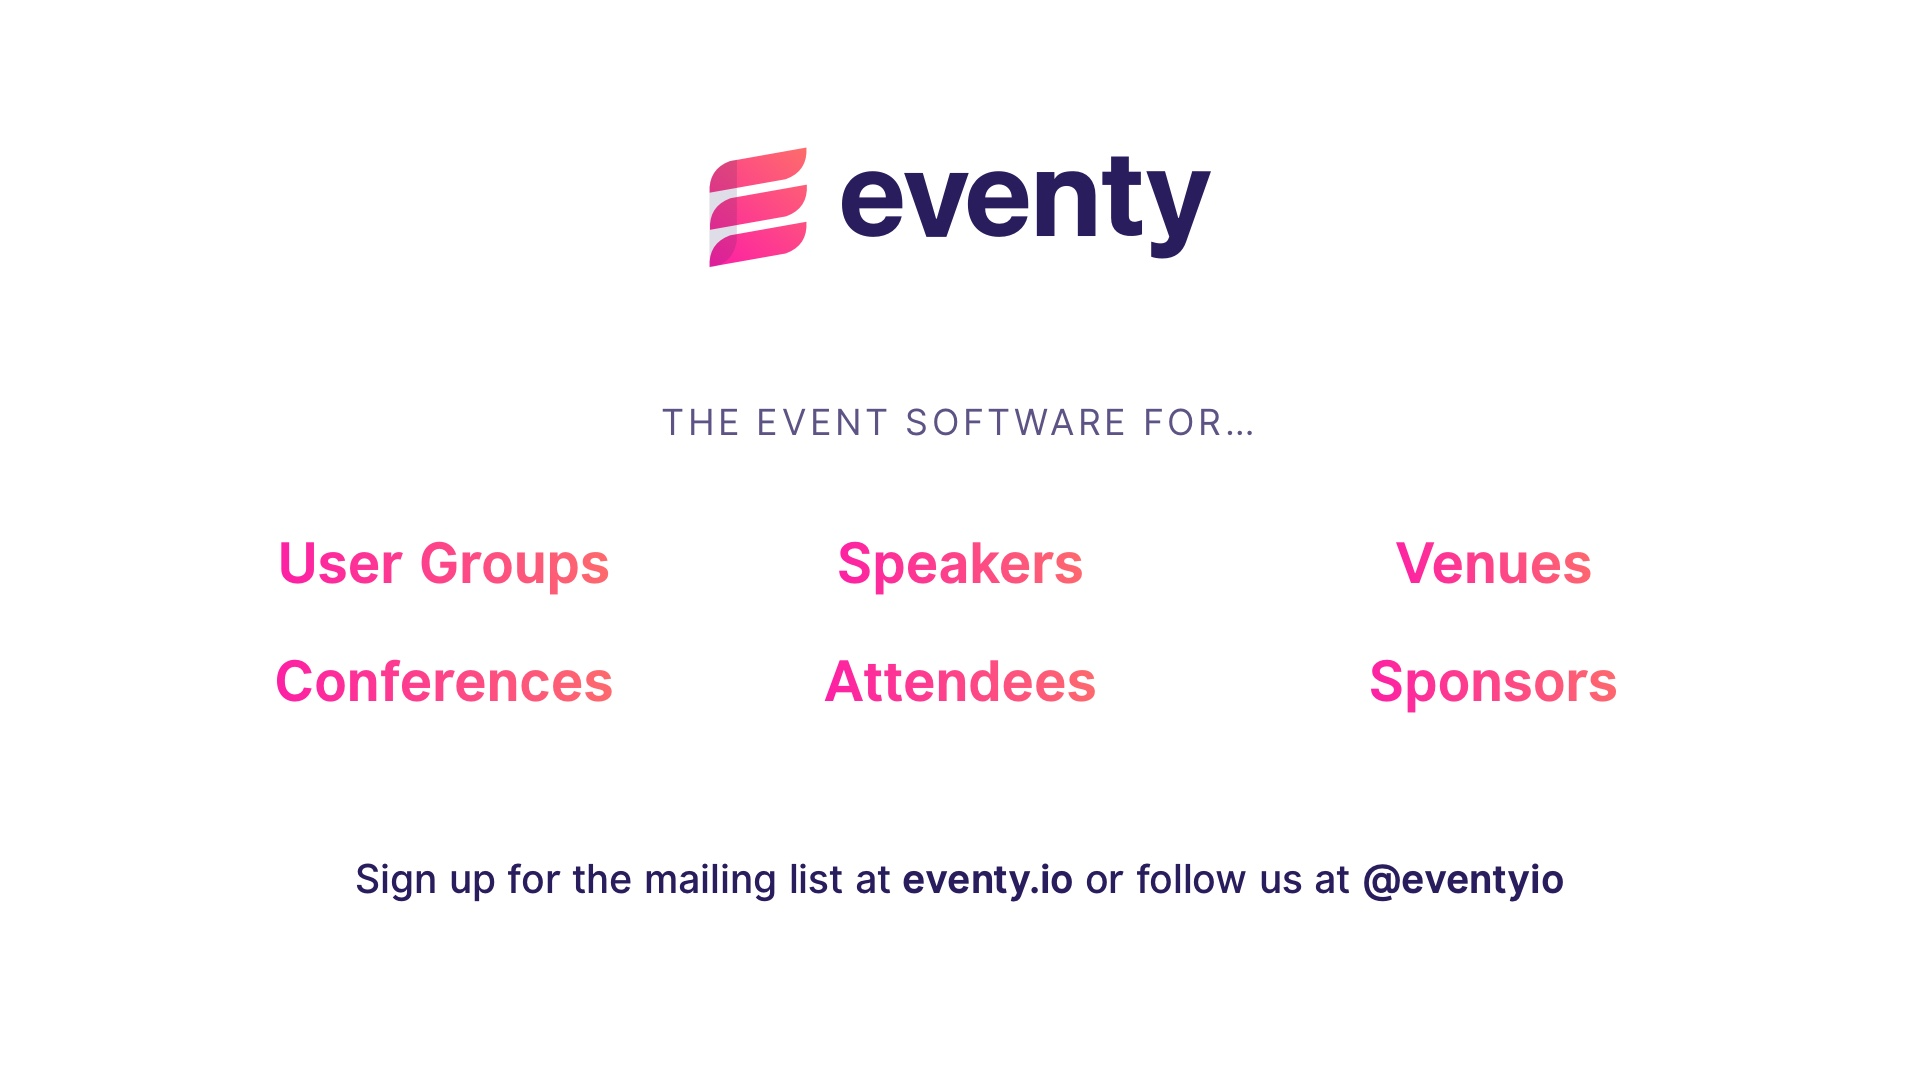
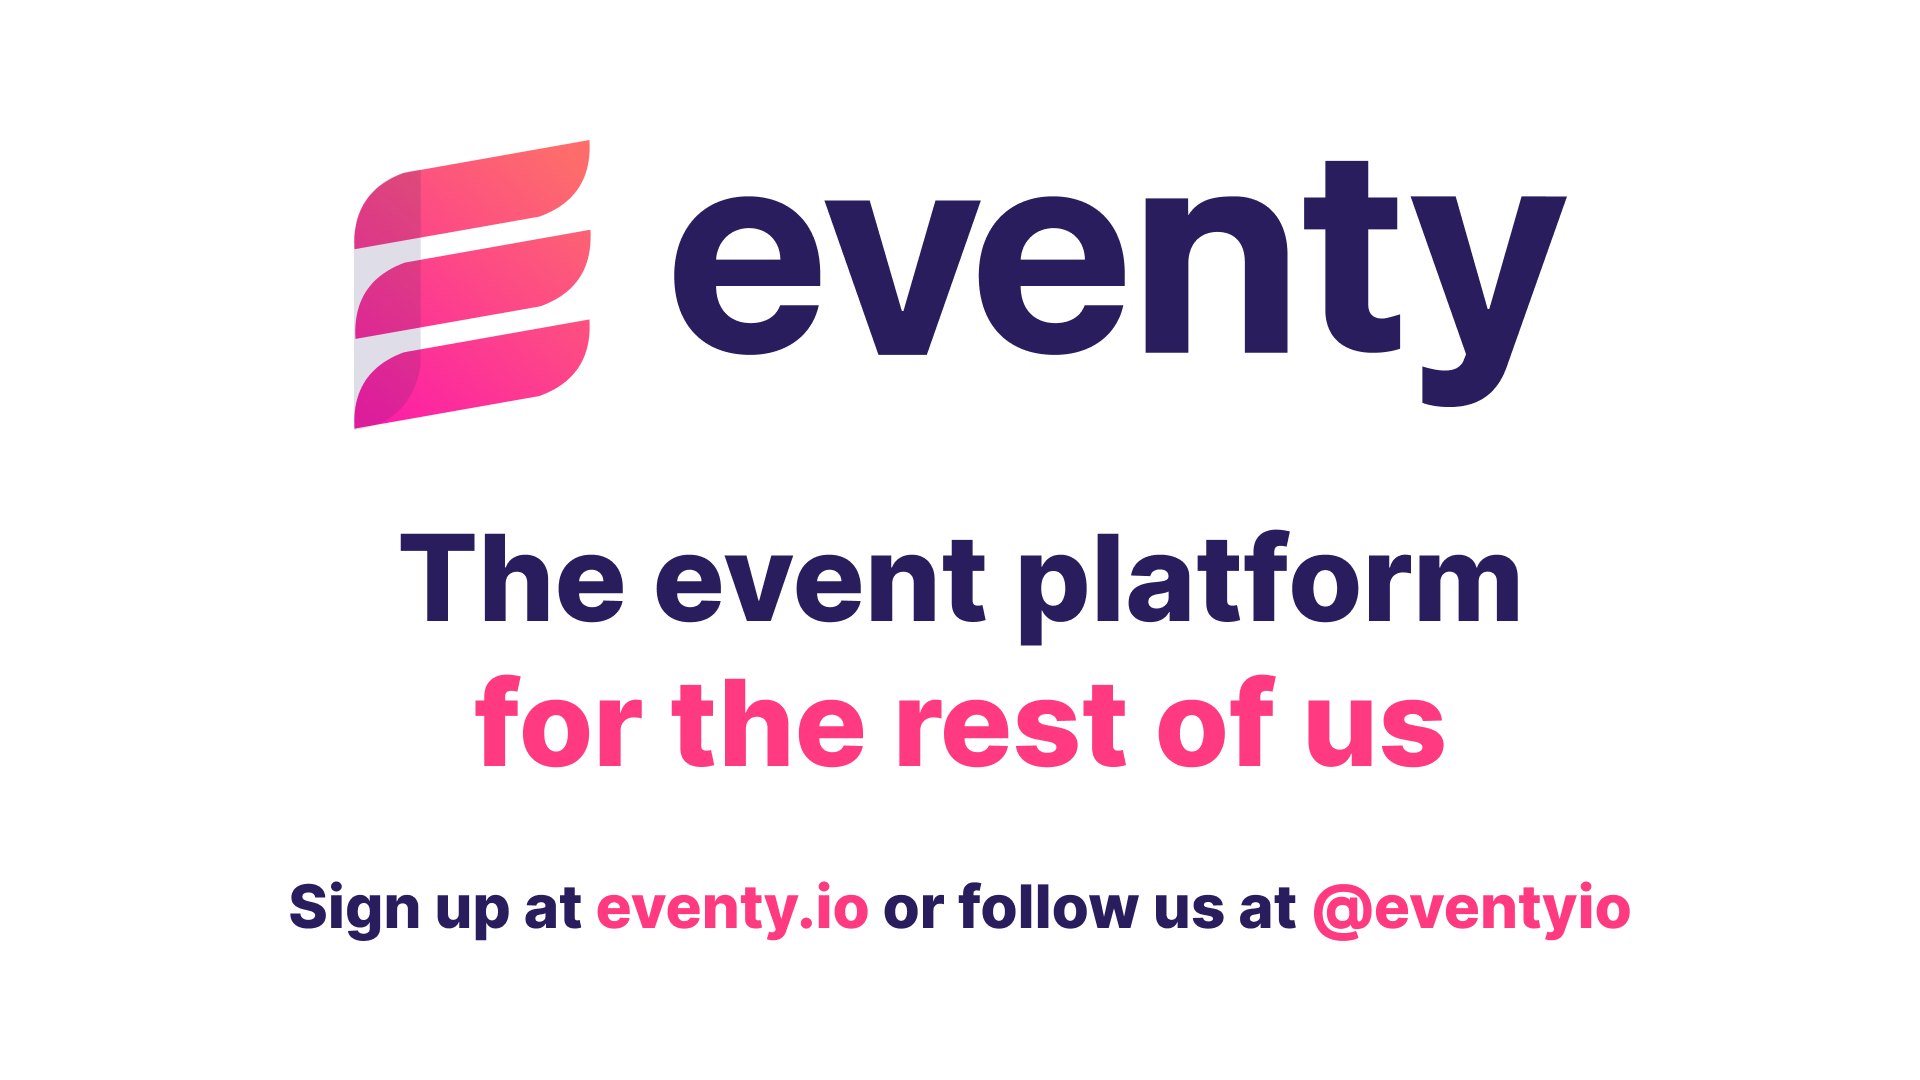
Add eventy slide

diff --git a/resources/views/admin/generate-slides.blade.php b/resources/views/admin/generate-slides.blade.php
@@ -103,12 +103,10 @@
                 <p>fullstackbelgium.be</p>
             </section>
 
-            {{--
             <section>
-                <img src="{{ asset('images/fseu.png') }}" alt="">
-                <h3 style="color: {{ $event->meetup->color }}">bit.ly/fseu22fsbe</h3>
+                <img src="{{ asset('images/eventy.png') }}" alt="">
+                {{-- <h3 style="color: {{ $event->meetup->color }}">bit.ly/fseu22fsbe</h3> --}}
             </section>
-            --}}
 
             <section>
                 <h2>How can you help?</h2>
